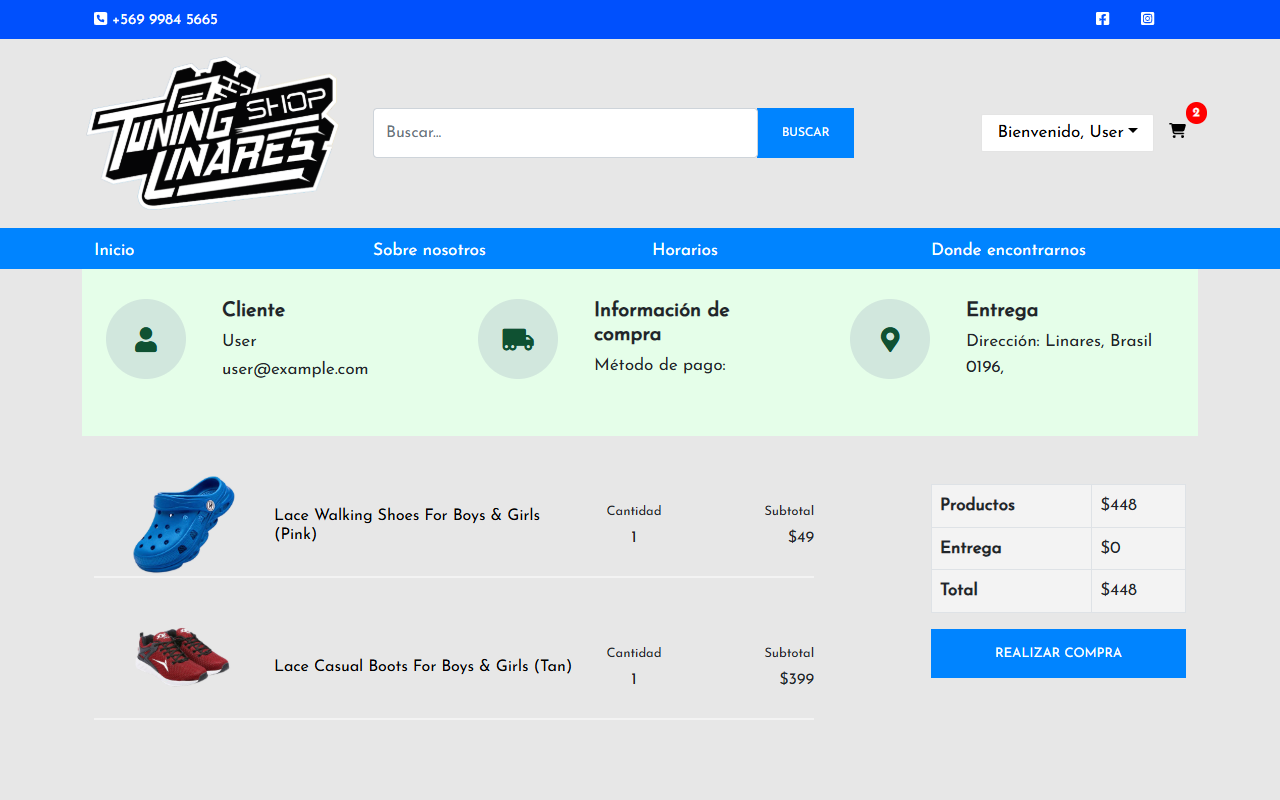
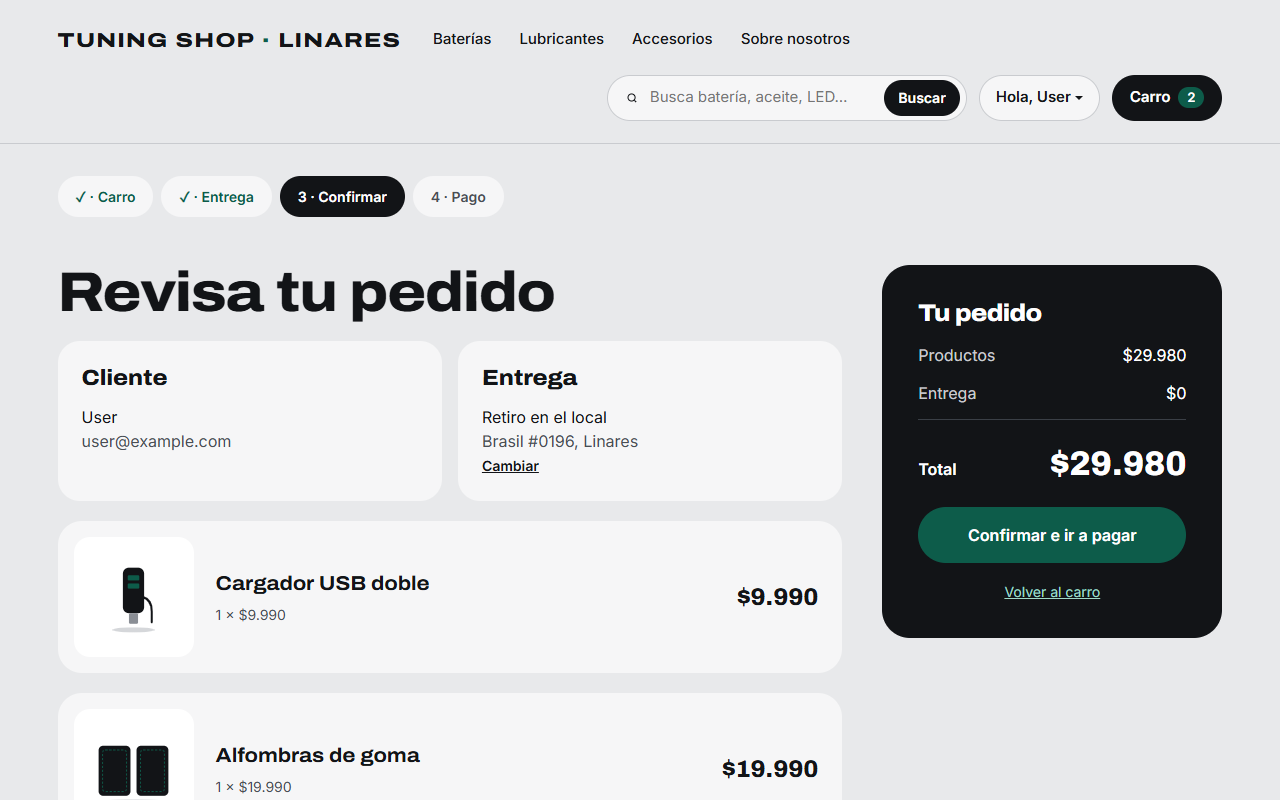
README: capturas y descripción del rediseño

diff --git a/README.md b/README.md
@@ -14,36 +14,36 @@ Está hecha con el stack **MERN**: una API en **Express** sobre **MongoDB**, y d
 
 ## Capturas
 
-Con los productos y cuentas de ejemplo del proyecto (por eso el catálogo muestra calzado).
+Versión 2, con el rediseño «Taller premium» y el catálogo de ejemplo (productos, precios e ilustraciones de demostración). Las capturas de la versión presentada en 2023 están en la rama [`tesis-2023`](../../tree/tesis-2023).
 
 <!-- Sin tabla: en una tabla GitHub ajusta cada columna al texto y las imágenes quedan de distinto tamaño. -->
 <p align="center">
-  <img src="docs/capturas/inicio.png" width="420" alt="Inicio con buscador, categorías y catálogo de productos">
-  <img src="docs/capturas/producto.png" width="420" alt="Ficha de producto con precio, stock, valoración y botón para añadir al carro">
+  <img src="docs/capturas/inicio.png" width="420" alt="Inicio: titular, producto destacado con botón de compra, categorías y productos recién llegados">
+  <img src="docs/capturas/producto.png" width="420" alt="Ficha de la batería 12V 60Ah con precio, stock, especificaciones técnicas y botón para añadir al carro">
 </p>
 <p align="center">
-  <img src="docs/capturas/carrito.png" width="420" alt="Carrito con dos productos y selector de cantidad">
+  <img src="docs/capturas/carrito.png" width="420" alt="Carro con los pasos de la compra, dos productos y el resumen del total">
   <img src="docs/capturas/confirmar_pedido.png" width="420" alt="Resumen del pedido antes de pagar: cliente, entrega, productos y total">
 </p>
 <p align="center">
-  <img src="docs/capturas/pedido.png" width="420" alt="Pedido pagado y enviado, con los productos y el total">
-  <img src="docs/capturas/perfil.png" width="420" alt="Perfil del cliente con RUT, teléfono y lista de compras">
+  <img src="docs/capturas/pedido.png" width="420" alt="Confirmación: pedido pagado y entregado, con cliente, forma de entrega y total">
+  <img src="docs/capturas/perfil.png" width="420" alt="Mi cuenta: pedidos con su estado de pago y entrega">
 </p>
 
-* **Catálogo:** búsqueda por nombre y paginación de 12 productos.
-* **Producto:** precio, stock, valoración y reseñas de los clientes.
-* **Compra:** carrito, dirección de envío, método de pago, resumen y pago con PayPal.
-* **Perfil:** datos del cliente (incluido RUT, teléfono y dirección) e historial de pedidos.
+* **Catálogo:** categorías (baterías, lubricantes y accesorios), búsqueda por nombre y paginación de 12 productos.
+* **Producto:** precio, stock, especificaciones técnicas, valoración y reseñas de los clientes.
+* **Compra:** carro, entrega (retiro en el local o despacho), confirmación y pago con PayPal, con un botón para simular el pago en la demo.
+* **Mi cuenta:** pedidos con su estado y datos del cliente (incluido RUT, teléfono y dirección).
 * **Local:** páginas de horario de atención, ubicación con Google Maps y sobre nosotros.
 
 ### Panel de administración
 
 <p align="center">
   <img src="docs/capturas/admin_login.png" width="420" alt="Inicio de sesión del panel">
-  <img src="docs/capturas/admin_resumen.png" width="420" alt="Resumen con ingresos, ventas y productos; los gráficos de MongoDB Charts quedan cargando sin el cluster original">
+  <img src="docs/capturas/admin_resumen.png" width="420" alt="Resumen con ingresos, pedidos, pedidos por entregar, últimos pedidos y productos con stock bajo">
 </p>
 <p align="center">
-  <img src="docs/capturas/admin_productos.png" width="420" alt="Listado de productos con botones para editar y eliminar">
+  <img src="docs/capturas/admin_productos.png" width="420" alt="Productos con categoría, stock, precio y botones para editar y eliminar">
   <img src="docs/capturas/admin_pedidos.png" width="420" alt="Ventas con estado de pago y de envío">
 </p>
 <p align="center">
@@ -52,11 +52,10 @@ Con los productos y cuentas de ejemplo del proyecto (por eso el catálogo muestr
 </p>
 
 * **Acceso:** login solo para cuentas de administrador.
-* **Resumen:** totales de ventas, pedidos y productos, últimos pedidos y gráficos embebidos de **MongoDB Charts** (dependían del cluster de Atlas original, que ya no existe, así que hoy quedan cargando).
-* **Productos:** crear, editar y eliminar.
+* **Resumen:** ingresos, pedidos, pedidos por entregar, productos sin stock, últimos pedidos y productos con stock bajo.
+* **Productos:** crear, editar y eliminar, con categoría, stock y vista previa de la imagen.
 * **Pedidos:** listado, detalle y marcar como entregado.
 * **Usuarios:** listado de clientes registrados.
-* **Categorías:** solo maqueta visual, no está conectada a la API.
 
 ## Funciones
 
@@ -81,7 +80,7 @@ Lo que tiene:
 * Marcar un pedido como entregado es exclusivo de administradores.
 * Las rutas `/api/import`, que reemplazan usuarios y productos con los de ejemplo, solo existen cuando `NODE_ENV` no es `production`.
 
-Corregido en 2026, después de la entrega: en la versión presentada cualquier usuario con sesión podía ver, pagar o marcar como entregado un pedido ajeno, y `/api/import` quedaba abierto también en producción.
+Corregido en 2026, después de la entrega: en la versión presentada cualquier usuario con sesión podía ver, pagar o marcar como entregado un pedido ajeno, y `/api/import` quedaba abierto también en producción. Además, un token válido de un usuario ya eliminado provocaba un error 500; ahora responde 401.
 
 Pendiente:
 
@@ -95,10 +94,10 @@ Pendiente:
 | API | **Node.js**, **Express 4**, express-async-handler, morgan |
 | Base de datos | **MongoDB Atlas** con **Mongoose 6** |
 | Autenticación | **jsonwebtoken**, **bcryptjs** |
-| Tienda | **React 17**, **Redux** + redux-thunk, React Router 5, axios |
-| Panel admin | **React 17**, **Redux** + redux-thunk, React Router 5, axios |
+| Tienda | **React 17**, **Redux** + redux-thunk, React Router 5, axios, CSS propio (Archivo + Inter) |
+| Panel admin | **React 17**, **Redux** + redux-thunk, React Router 5, axios, Bootstrap 5.3 con tema propio |
 | Pagos | react-paypal-button-v2 (PayPal) |
-| Extras | Font Awesome, react-toastify, Google Maps, MongoDB Charts |
+| Extras | Google Maps, react-toastify (panel) |
 
 ```text
  Cliente  ───► Tienda React  (:3000) ──┐
@@ -132,6 +131,8 @@ erDiagram
         string name
         string image
         string description
+        string category "baterias, lubricantes o accesorios"
+        array specs "datos técnicos destacados"
         number rating
         number numReviews
         number price
